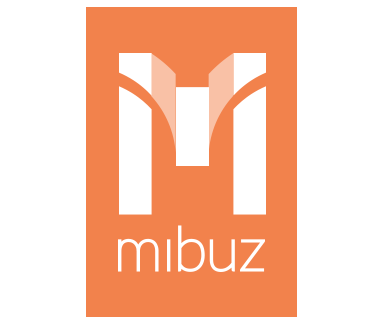
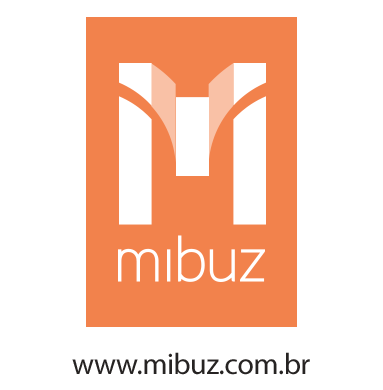
Improve content

diff --git a/index.html b/index.html
@@ -58,18 +58,20 @@
   </div></section>
 
   <section class="slide"><div>
-    <img src="images/mibuz.png" alt=""  class="place" />
-    <a href="http://mibuz.com.br">mibuz.com.br</a>
+    <a href="http://mibuz.com.br">
+      <img src="images/mibuz.png" alt=""  class="place" />
+    </a>
   </div></section>
 
   <section class="slide"><div>
-    <img src="images/motor.png" alt=""  class="place" />
-    <a href="http://motordeideias.com.br">motordeideias.com.br</a>
+    <a href="http://motordeideias.com.br">
+      <img src="images/motor.png" alt=""  class="place" />
+    </a>
   </div></section>
 
   <section class="slide shout"><div>
     <h2>
-      O que é AngularJS?
+      O que é <br>AngularJS?
     </h2>
   </div></section>
 
@@ -165,9 +167,9 @@
 
   <section class="slide"><div>
     <h2>MVC</h2>
-    <p>
-      Todos já deve ter ouvido falar sobre MVC, usado em várias linguagens.
-    </p>
+    <ul>
+      <li>Todos já devem ter ouvido falar sobre MVC, usado em várias linguagens.</li>
+    </ul>
     <ol>
       <li>Model - Trabalha com a estrutura de dados.</li>
       <li>View - É o HTML</li>
@@ -177,9 +179,9 @@
 
   <section class="slide"><div>
     <h2>MVC</h2>
-    <p>
-      Todos já deve ter ouvido falar sobre MVC, usado em várias linguagens.
-    </p>
+    <ul>
+      <li>Todos já devem ter ouvido falar sobre MVC, usado em várias linguagens.</li>
+    </ul>
     <ol>
       <li>Model - Trabalha com a estrutura de dados.</li>
       <li>View - É o HTML</li>
